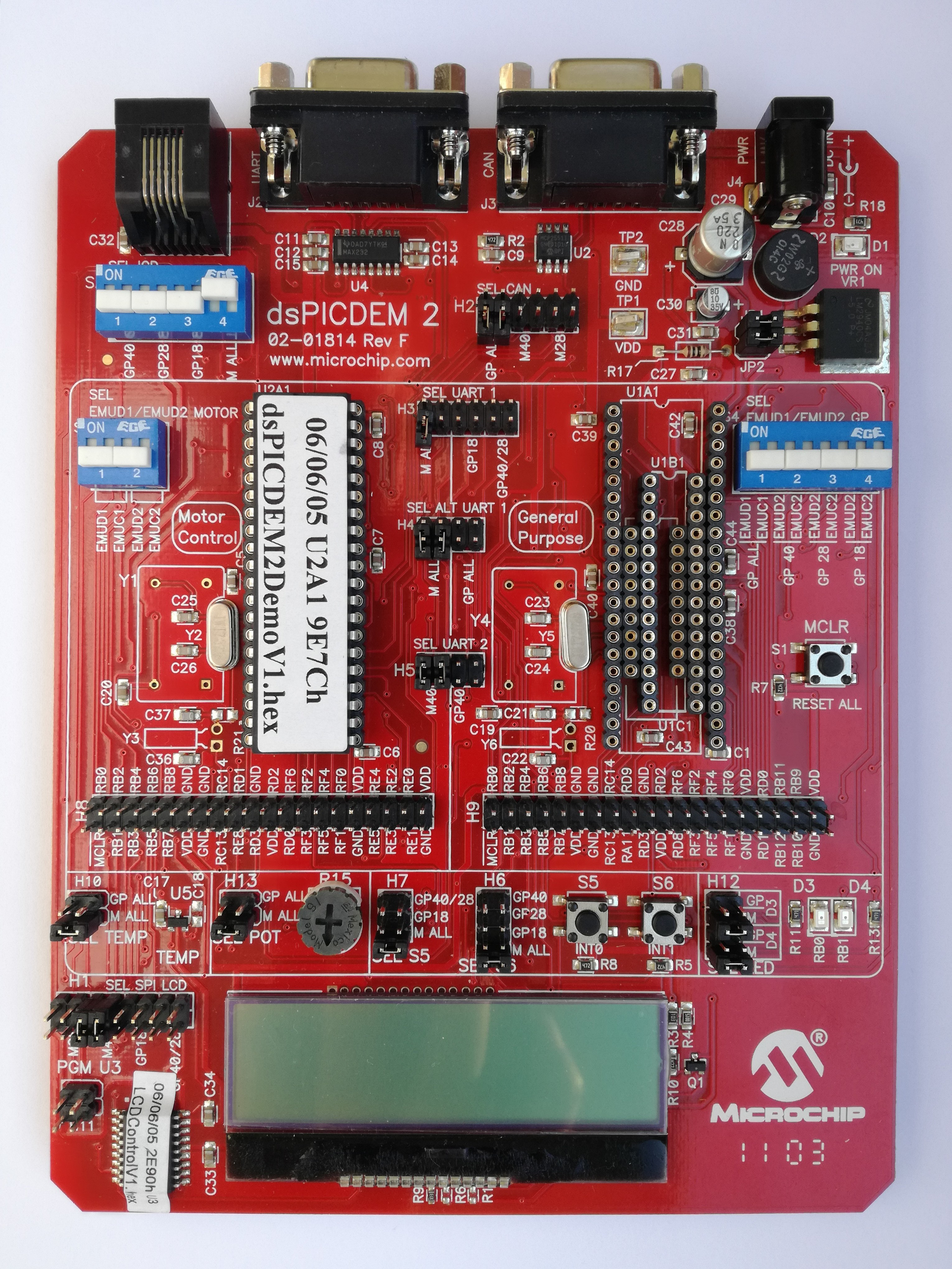
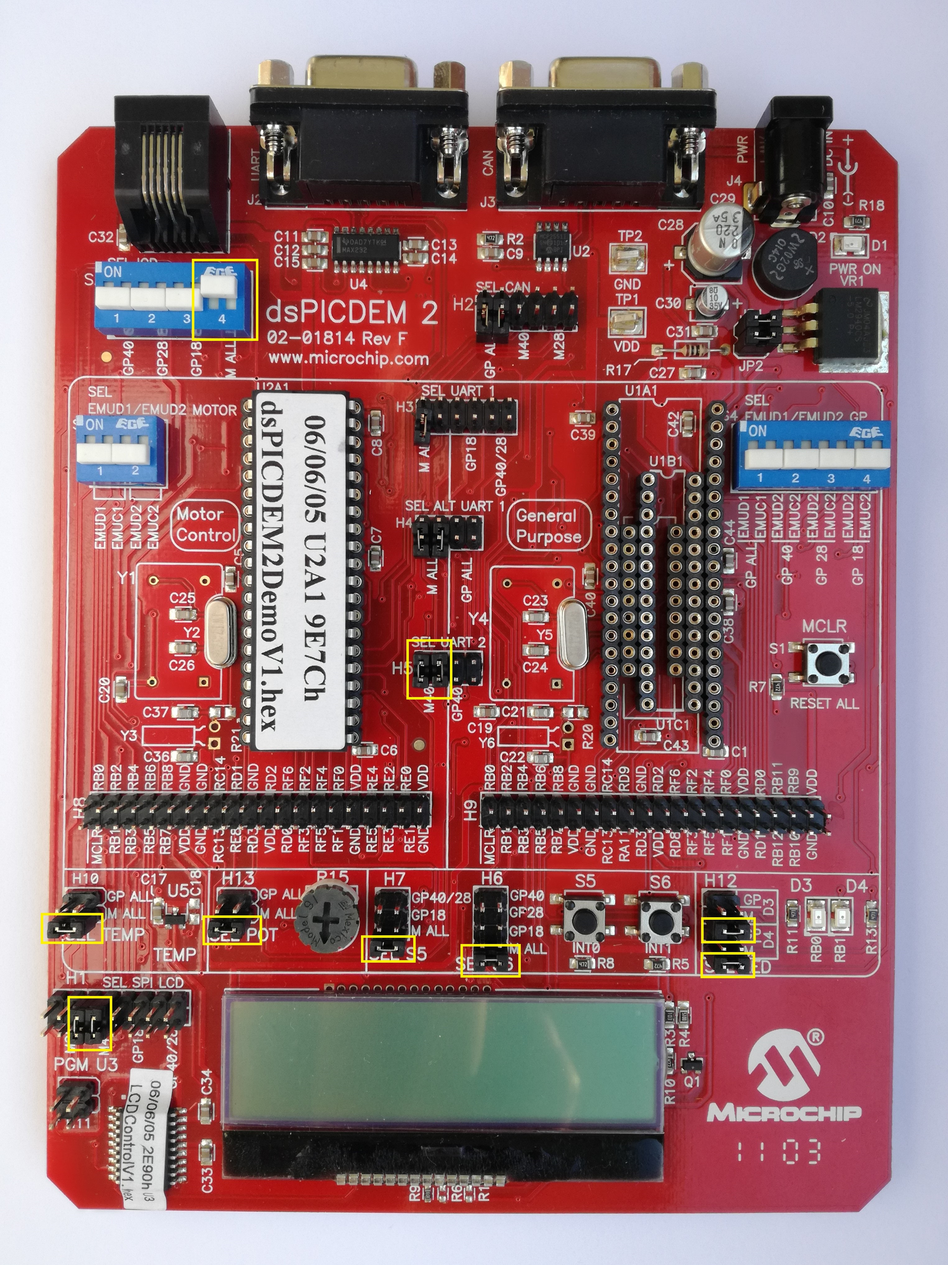
Update README.md

diff --git a/README.md b/README.md
@@ -6,14 +6,14 @@ The aim of this project is to implement a basic control system for an autonomous
   <img src="images/Overview.png" width="700">
 </p>
 
-A microcontroller board is connected to two outboard motors. Each outboard motor is composed by a DC motor and a propeller installed at the end of its shaft. Together, the two outboard motors allow the catamaran to move and rotate in the water. The microcontroller receives desired reference values for the rotation speed of the motors from a control PC, in terms of motor RPMs (rounds per minute). These
-reference signals are sent through a serial interface. The microcontroller sends a feedback messages back to the control PC to report a few status information.
+A microcontroller board is connected to two outboard motors. Each outboard motor is composed of a DC motor and a propeller installed at the end of its shaft. Together, the two outboard motors allow the catamaran to move and rotate in the water. The microcontroller receives desired reference values for the rotation speed of the motors from a control PC, in terms of motor RPMs (rounds per minute). These
+reference signals are sent through a serial interface. The microcontroller sends feedback messages back to the control PC to report a few status information.
 
 ## About the project 
 ### Hardware specifications
 
 - Each motor can run from -10000 to +10000 RPMs
-- The RPM are controlled through a PWM signal
+- The RPMs are controlled through a PWM signal
   - The frequency must be 1 kHz
   - 50% duty cycle corresponds to 0 RPM, 0% corresponds to -10000 RPM and 100% corresponds to 10000 RPMs
 - The propeller installed on the shaft of each motor is rated for maximum RPMs of +-8000. Running the motor above +-8000 RPMs might damage the propeller and must be avoided
@@ -30,7 +30,7 @@ reference signals are sent through a serial interface. The microcontroller sends
 
 | Mode        	| Symbol | Effect  |
 | :-----------: |:------:| :------|
-| Controlled    | C 	 | Motors velocity are set equal to *n1* and *n2* for left motor and right one respectivelly |
+| Controlled    | C 	 | Motors velocity are set equal to *n1* and *n2* for left motor and right one respectively |
 | Time out      | T      | No references are received from the PC for more than 5 seconds so both motors velocity are set to zero |
 | Safe mode 	| H      | Motors are stopped immediately and new reference signals are ignored until the microcontroller receives the enable message from the PC |
 
@@ -46,7 +46,7 @@ reference signals are sent through a serial interface. The microcontroller sends
     - If the above conditions are not met, the new values are not applied, and the firmware sends a negative ack message
     - Otherwise, the new values are stored, the PWM is refreshed to comply with the new saturation values, and a positive ack is sent
 
-###### C.2 Timout mode
+###### C.2 Timeout mode
 - If no references are received from the PC for more than 5 seconds, the firmware should enter a **timeout mode**:
   - Both motors velocity should be set to zero
   - **Led D4** should blink to signal timeout
@@ -64,17 +64,22 @@ reference signals are sent through a serial interface. The microcontroller sends
 - The firmware should write on the LCD different information based on the current modality:
   - *First modality*:
 
-| Row        	| Information 		| Explanation  								| Example		|
-| :-----------: |:---------------------:| :---------------------------------------------------------------------|:---------------------:|
-| First    	| **STA: x TEM: y** 	| *x* = H/T/C (halt/timeout/controlled), and *y* is the temperature 	| STA: C TEM: 22.3 	|
-| Second      	| **RPM: n1,n2**     	| *n1* and *n2* are the applied RPM 					| RPM: -1000,-2000	|
+| Row        	| Information 		| Explanation  								| 
+| :-----------: |:---------------------:| :---------------------------------------------------------------------|
+| First    	| **STA: x TEM: y** 	| *x* = H/T/C (halt/timeout/controlled), and *y* is the temperature 	| 
+| Second      	| **RPM: n1,n2**     	| *n1* and *n2* are the applied RPM 					| 
+
+![LCD modality 1](/images/LCD_mod1.jpg)
+
 
   - If the button S6 is pressed, the LCD should change into *second modality*:
 
-| Row        	| Information 			 | Explanetion  								| Example		|
-| :-----------: |:------------------------------:| :-------------------------------------------------------			|:-----------------------------:|
-| First    	| **SAT: x/y**			 | *x* and *y* are the minimum and maximum current saturation values set	| SAT: -8000/8000 	|
-| Second      	| **RPM: PDC1,PDC2**    	 | *PDC1* and *PDC2* are the values of the duty cycle PWM registers		| RPM: 1658,1474	|
+| Row        	| Information 			 | Explanation  								| 
+| :-----------: |:------------------------------:| :-------------------------------------------------------			|
+| First    	| **SAT: x/y**			 | *x* and *y* are the minimum and maximum current saturation values set	| 
+| Second      	| **RPM: PDC1,PDC2**    	 | *PDC1* and *PDC2* are the values of the duty cycle PWM registers		| 
+
+![LCD modality 2](/images/LCD_mod2.jpg)
 
 ##### D. Feedback to the PC
 - The firmware must acquire the temperature sensor at 10 Hz frequency and average the last 10 readings. The averaged value is sent to the PC at 1 Hz frequency with the **MCTEM** message
@@ -85,7 +90,7 @@ reference signals are sent through a serial interface. The microcontroller sends
 ## Getting Started
 ### Host system requirements
 
-- PC-compatible system with an Interl class processor, or equivalent
+- PC-compatible system with an Intel class processor, or equivalent
 - A minimum of 16 MB RAM
 - A minimum fo 40 MB available hard drive space 
 
@@ -96,7 +101,7 @@ reference signals are sent through a serial interface. The microcontroller sends
 
 ### Set up
 
-1. Check that the board has all the jumpers and switches in the same position as the image below. In particular pay attention to the ones highlighted with a yellow rectangle around
+1. Check that the board has all the jumpers and switches in the same position of the yellow rectangles in the image below
 
 <p align="center">
   <img src="images/dsPICDEM2.jpg" width="500">
@@ -107,6 +112,17 @@ reference signals are sent through a serial interface. The microcontroller sends
 <p align="center">
   <img src="images/Connections.jpg" width="900">
 </p>
+
+3. Attach the motors in **H8** as follow:
+
+| Motor        	| PWM pin 			|
+| :-----------: |:-----------------------------:| 
+| Left    	| RE1		 		| 
+| Right      	| RE3    			| 
+
+**NOTE:** For more detailed information about the connections check [dsPICDEM2_drawings.pdf](https://github.com/cesca95/AutonomousCatamaran/blob/master/docs/dsPICDEM2_drawings.pdf) file
+
+
 
 ## How to run the project
 
@@ -123,7 +139,7 @@ reference signals are sent through a serial interface. The microcontroller sends
   <img src="images/hterm.jpg" width="900">
 </p>
 
-  - Change the UART baudrate from 11500 bps to **9600** bps
+  - Change the UART baudrate from **115200** bps to **9600** bps
   - Click on **Connect** botton
   - You are going to receive these three different type of feedback messages from the board:
     - $MCFBK,n1,n2,state*
@@ -136,6 +152,9 @@ reference signals are sent through a serial interface. The microcontroller sends
   - $HLENA*
 
 5. To simulate **safe mode** you have to press button **S5** of the board
+
+![Example hterm](/images/Example_hterm.PNG) 
+
 
 
 ### More information about messages
